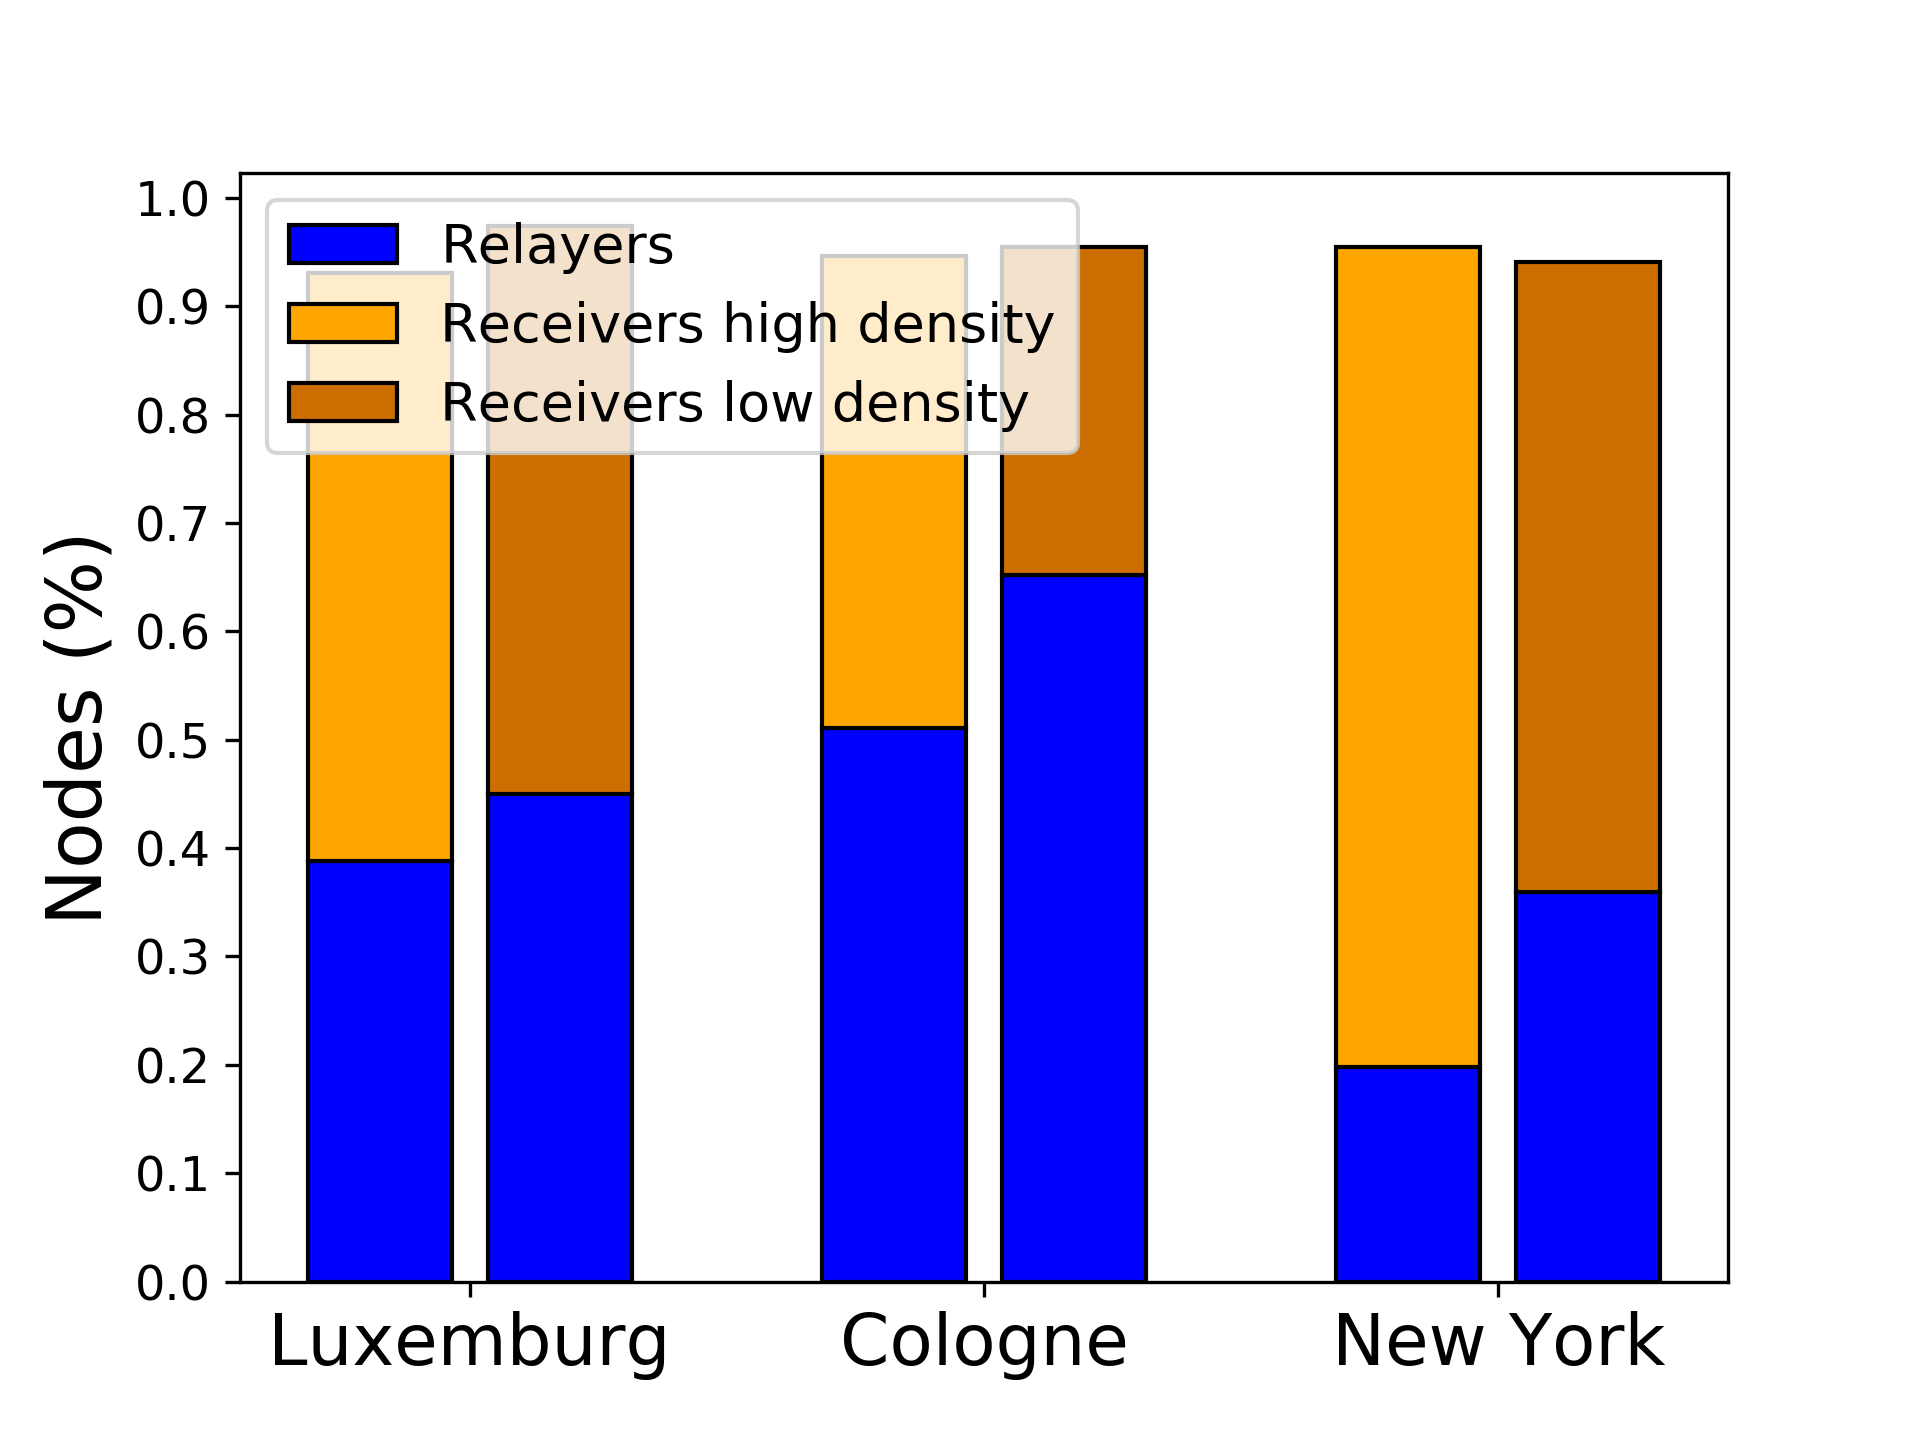
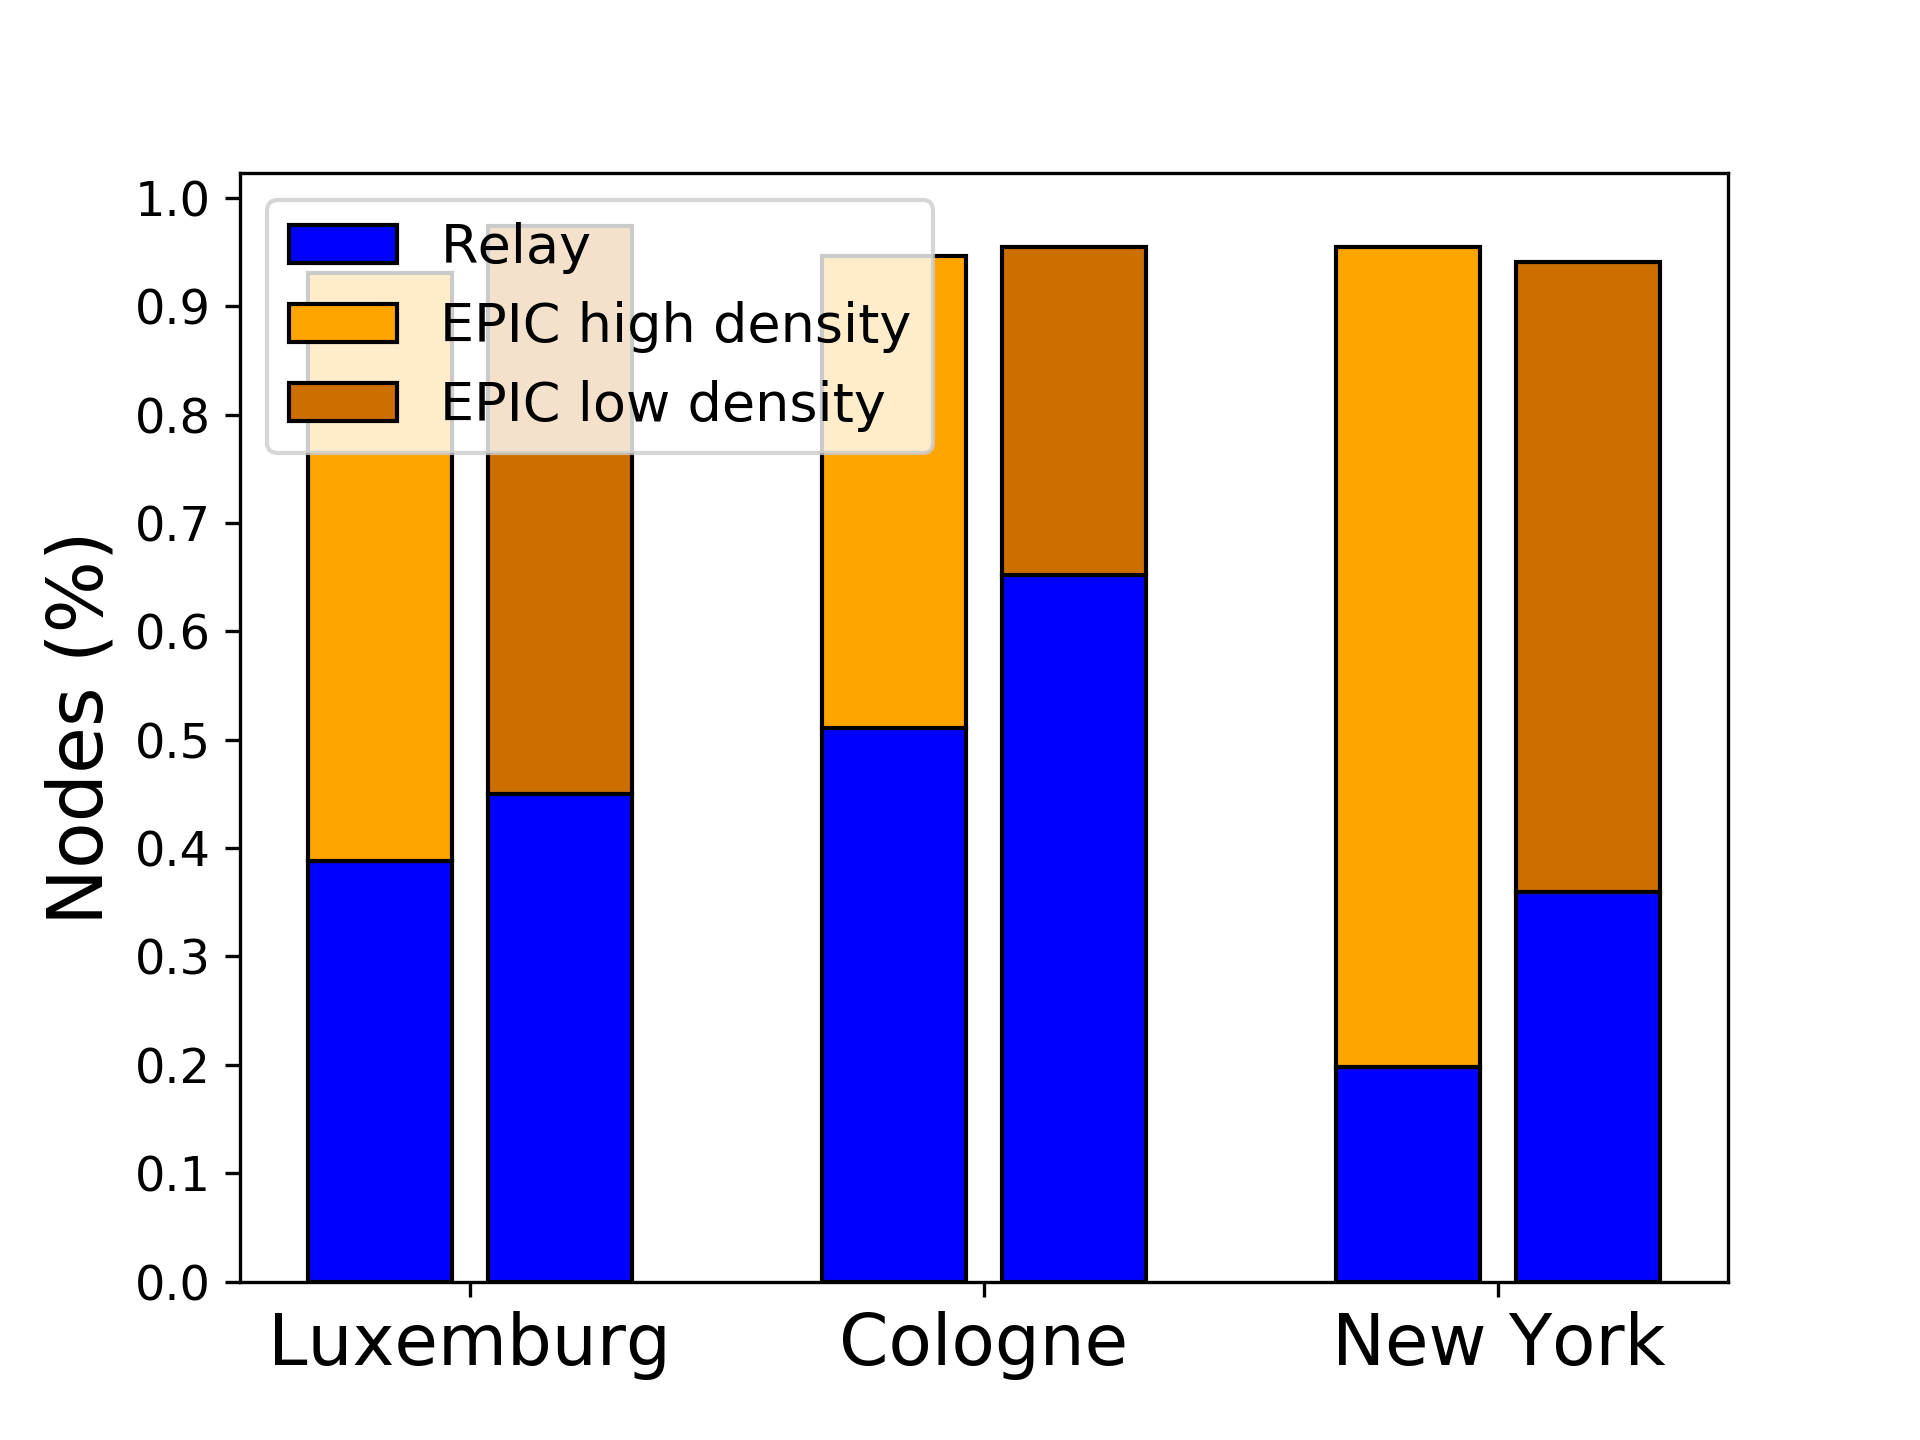
changed legend

diff --git a/grafici/graph-TC-comparison.py b/grafici/graph-TC-comparison.py
@@ -113,11 +113,11 @@ plt.ylabel('Nodes (%)')
 plt.title('')
 plt.xticks(ind+width+gap, ('Luxemburg', 'Cologne', 'New York'))
 plt.yticks(np.arange(0, 1.1, 0.1))
-plt.legend((p3[0], p2[0], p6[0], p4[0]), ('Relayers', 'Reached', r'Probabilistic $P=\widehat{P}$', r'Probabilistic $P=0.96$'), 
+plt.legend((p3[0], p2[0], p4[0], p6[0]), ('Relay', 'EPIC', r'Probabilistic $P=0.96$', r'Probabilistic $P=\widehat{P}$'), 
 	loc='upper center', bbox_to_anchor=(0.5, -0.08),
     fancybox=True, shadow=True, ncol=5)
 
 
-plt.gcf().subplots_adjust(bottom=0.15, left=0.15)
+plt.gcf().subplots_adjust(bottom=0.15, left=0.1)
 #plt.show()
 plt.savefig('grafici/top_car/prob_comparison.png', dpi=300)

diff --git a/grafici/graph-TC-alg-rmin-comp.py b/grafici/graph-TC-alg-rmin-comp.py
@@ -65,7 +65,7 @@ plt.yticks(np.arange(0, 1.1, 0.1))
 #plt.legend((p3[0], p2[0], p6[0], p4[0]), ('Relayers', 'Reached', r'Probabilistic $P=\widehat{P}$', r'Probabilistic $P=0.96$'), 
 #	loc='upper center', bbox_to_anchor=(0.5, -0.08),
 #    fancybox=True, shadow=True, ncol=5)
-plt.legend((p1[0], p2[0], p4[0]), ('Relayers', 'Reached high density', 'Reached low density'), loc='lower center', fancybox=True)
+plt.legend((p1[0], p2[0], p4[0]), ('Relay', 'EPIC high density', 'EPIC low density'), loc='lower center', fancybox=True)
 
 
 plt.gcf().subplots_adjust(bottom=0.15, left=0.15)

diff --git a/grafici/graph-TC-forw-recv.py b/grafici/graph-TC-forw-recv.py
@@ -96,7 +96,7 @@ plt.ylabel('Nodes (%)')
 plt.title('')
 plt.xticks(ind+width/2+gap/2, ('Luxemburg', 'Cologne', 'New York'))
 plt.yticks(np.arange(0, 1.1, 0.1))
-plt.legend((p3[0], p2[0], p4[0]), ('Relayers', 'Receivers high density', 'Receivers low density'), loc='upper left')
+plt.legend((p3[0], p2[0], p4[0]), ('Relay', 'EPIC high density', 'EPIC low density'), loc='upper left')
 
 #plt.show()
 plt.savefig('grafici/top_car/frw_recv.png', dpi=300)

diff --git a/grafici/graph-TC-emitters.py b/grafici/graph-TC-emitters.py
@@ -131,7 +131,7 @@ plt.title('Luxembourg')
 plt.xticks(ind, ('1', '5', '10', 'Unlimited'))
 plt.yticks(np.arange(0, 1.1, 0.1))
 fig.text(0.5, 0.019, 'Emitters Length Limit', ha='center', va='center')
-ax1.legend((p1[0], p2[0]), ('Relayers', 'Reached'), loc='lower left', fancybox=True)
+ax1.legend((p1[0], p2[0]), ('Relay', 'EPIC'), loc='lower left', fancybox=True)
 
 plt.tight_layout()
 plt.gcf().subplots_adjust(bottom=0.1)
